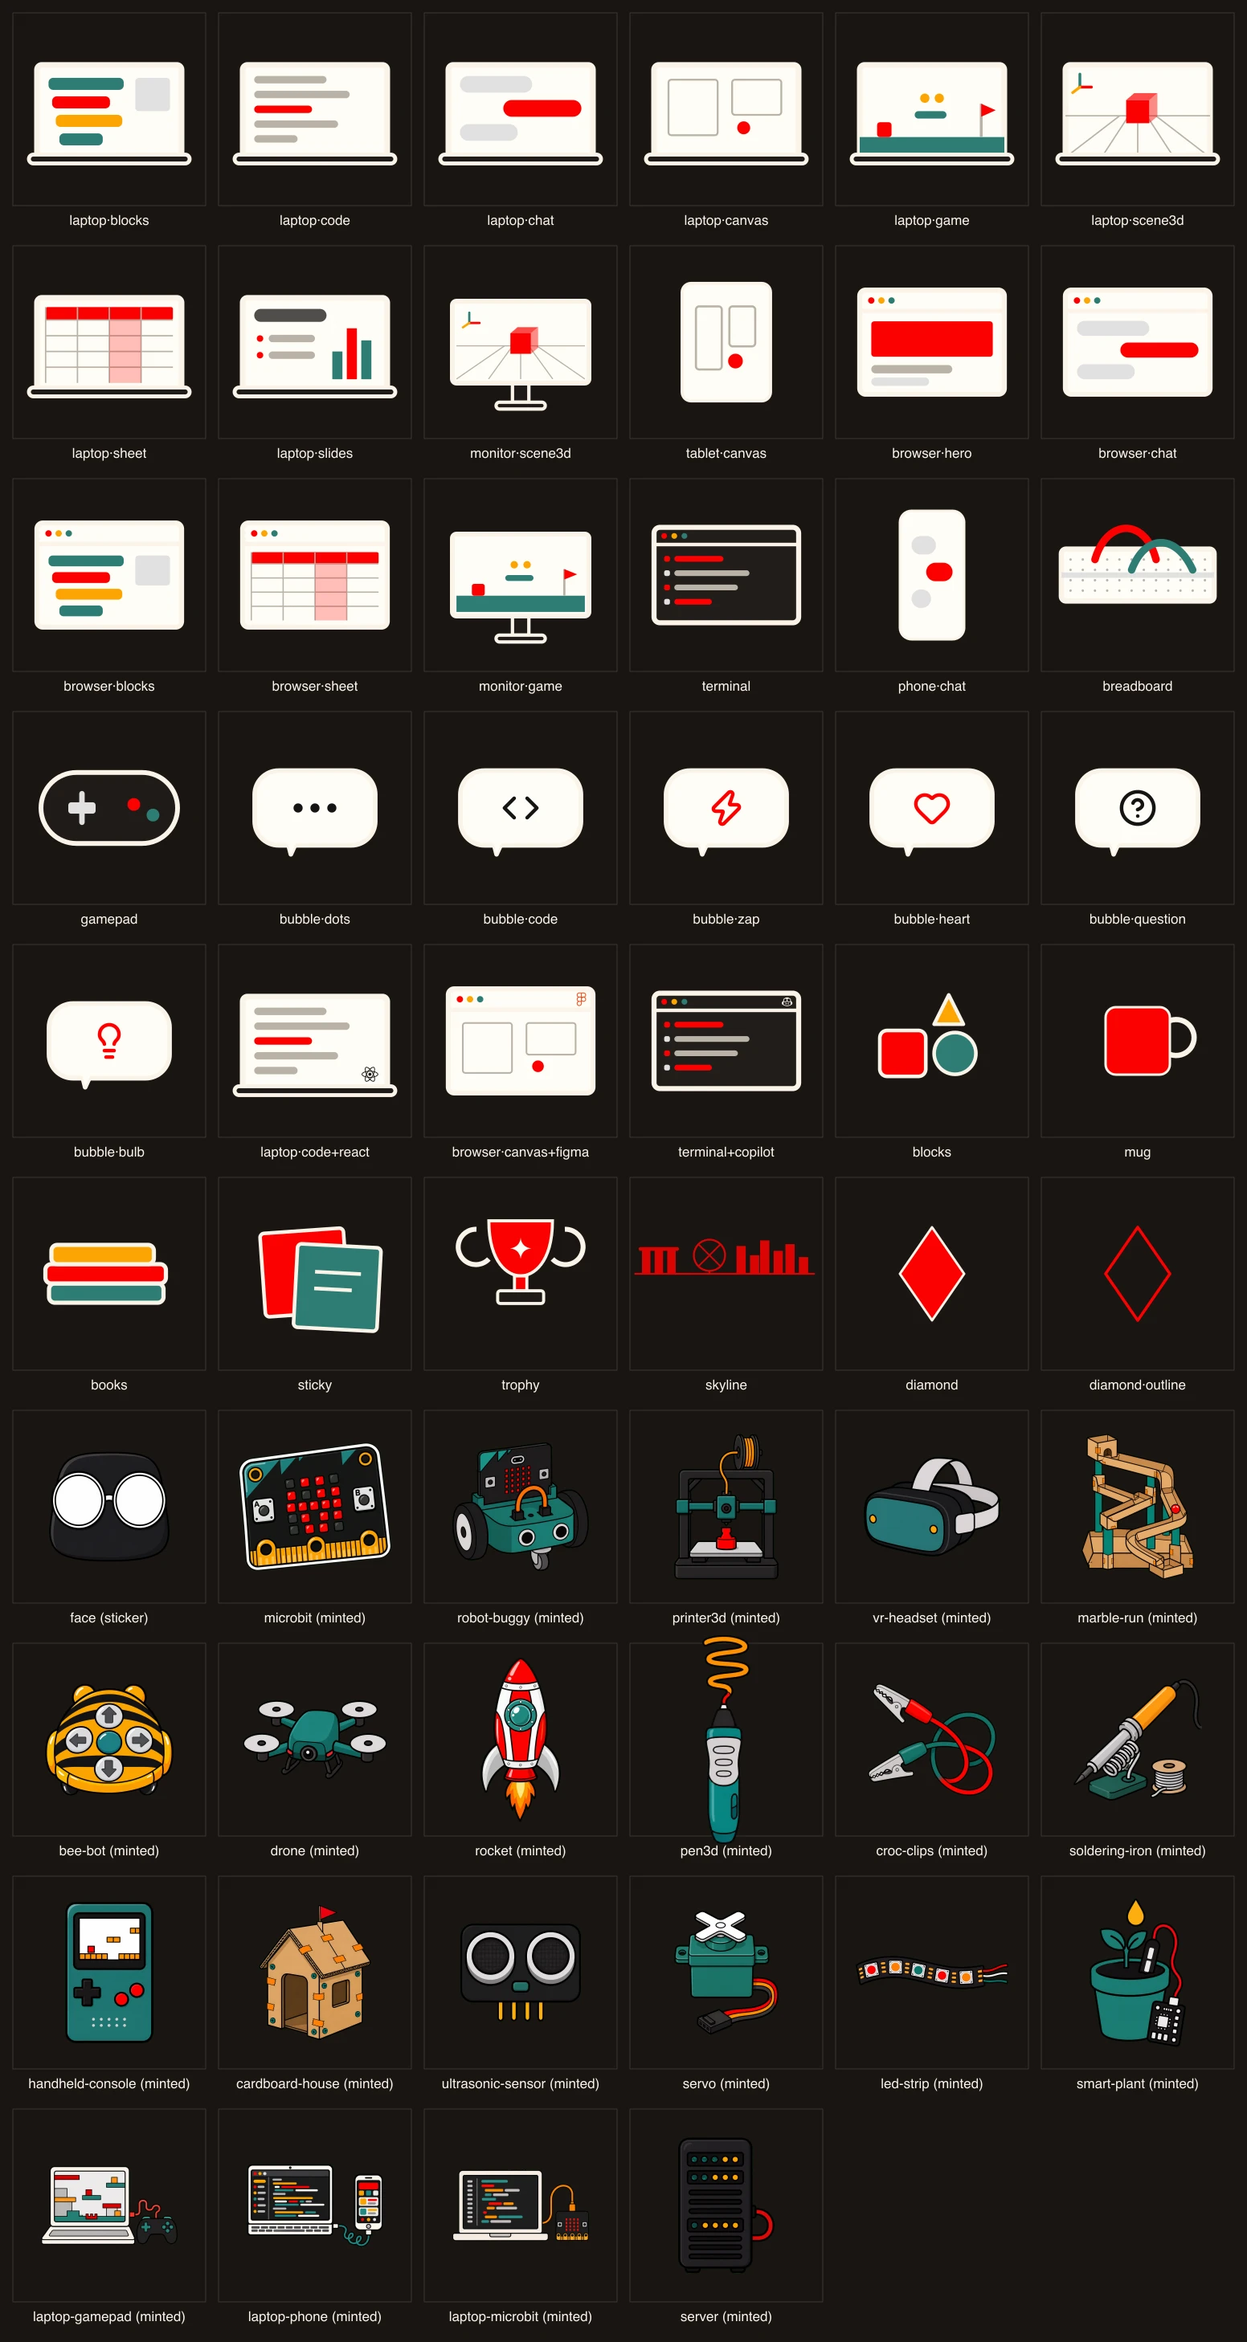
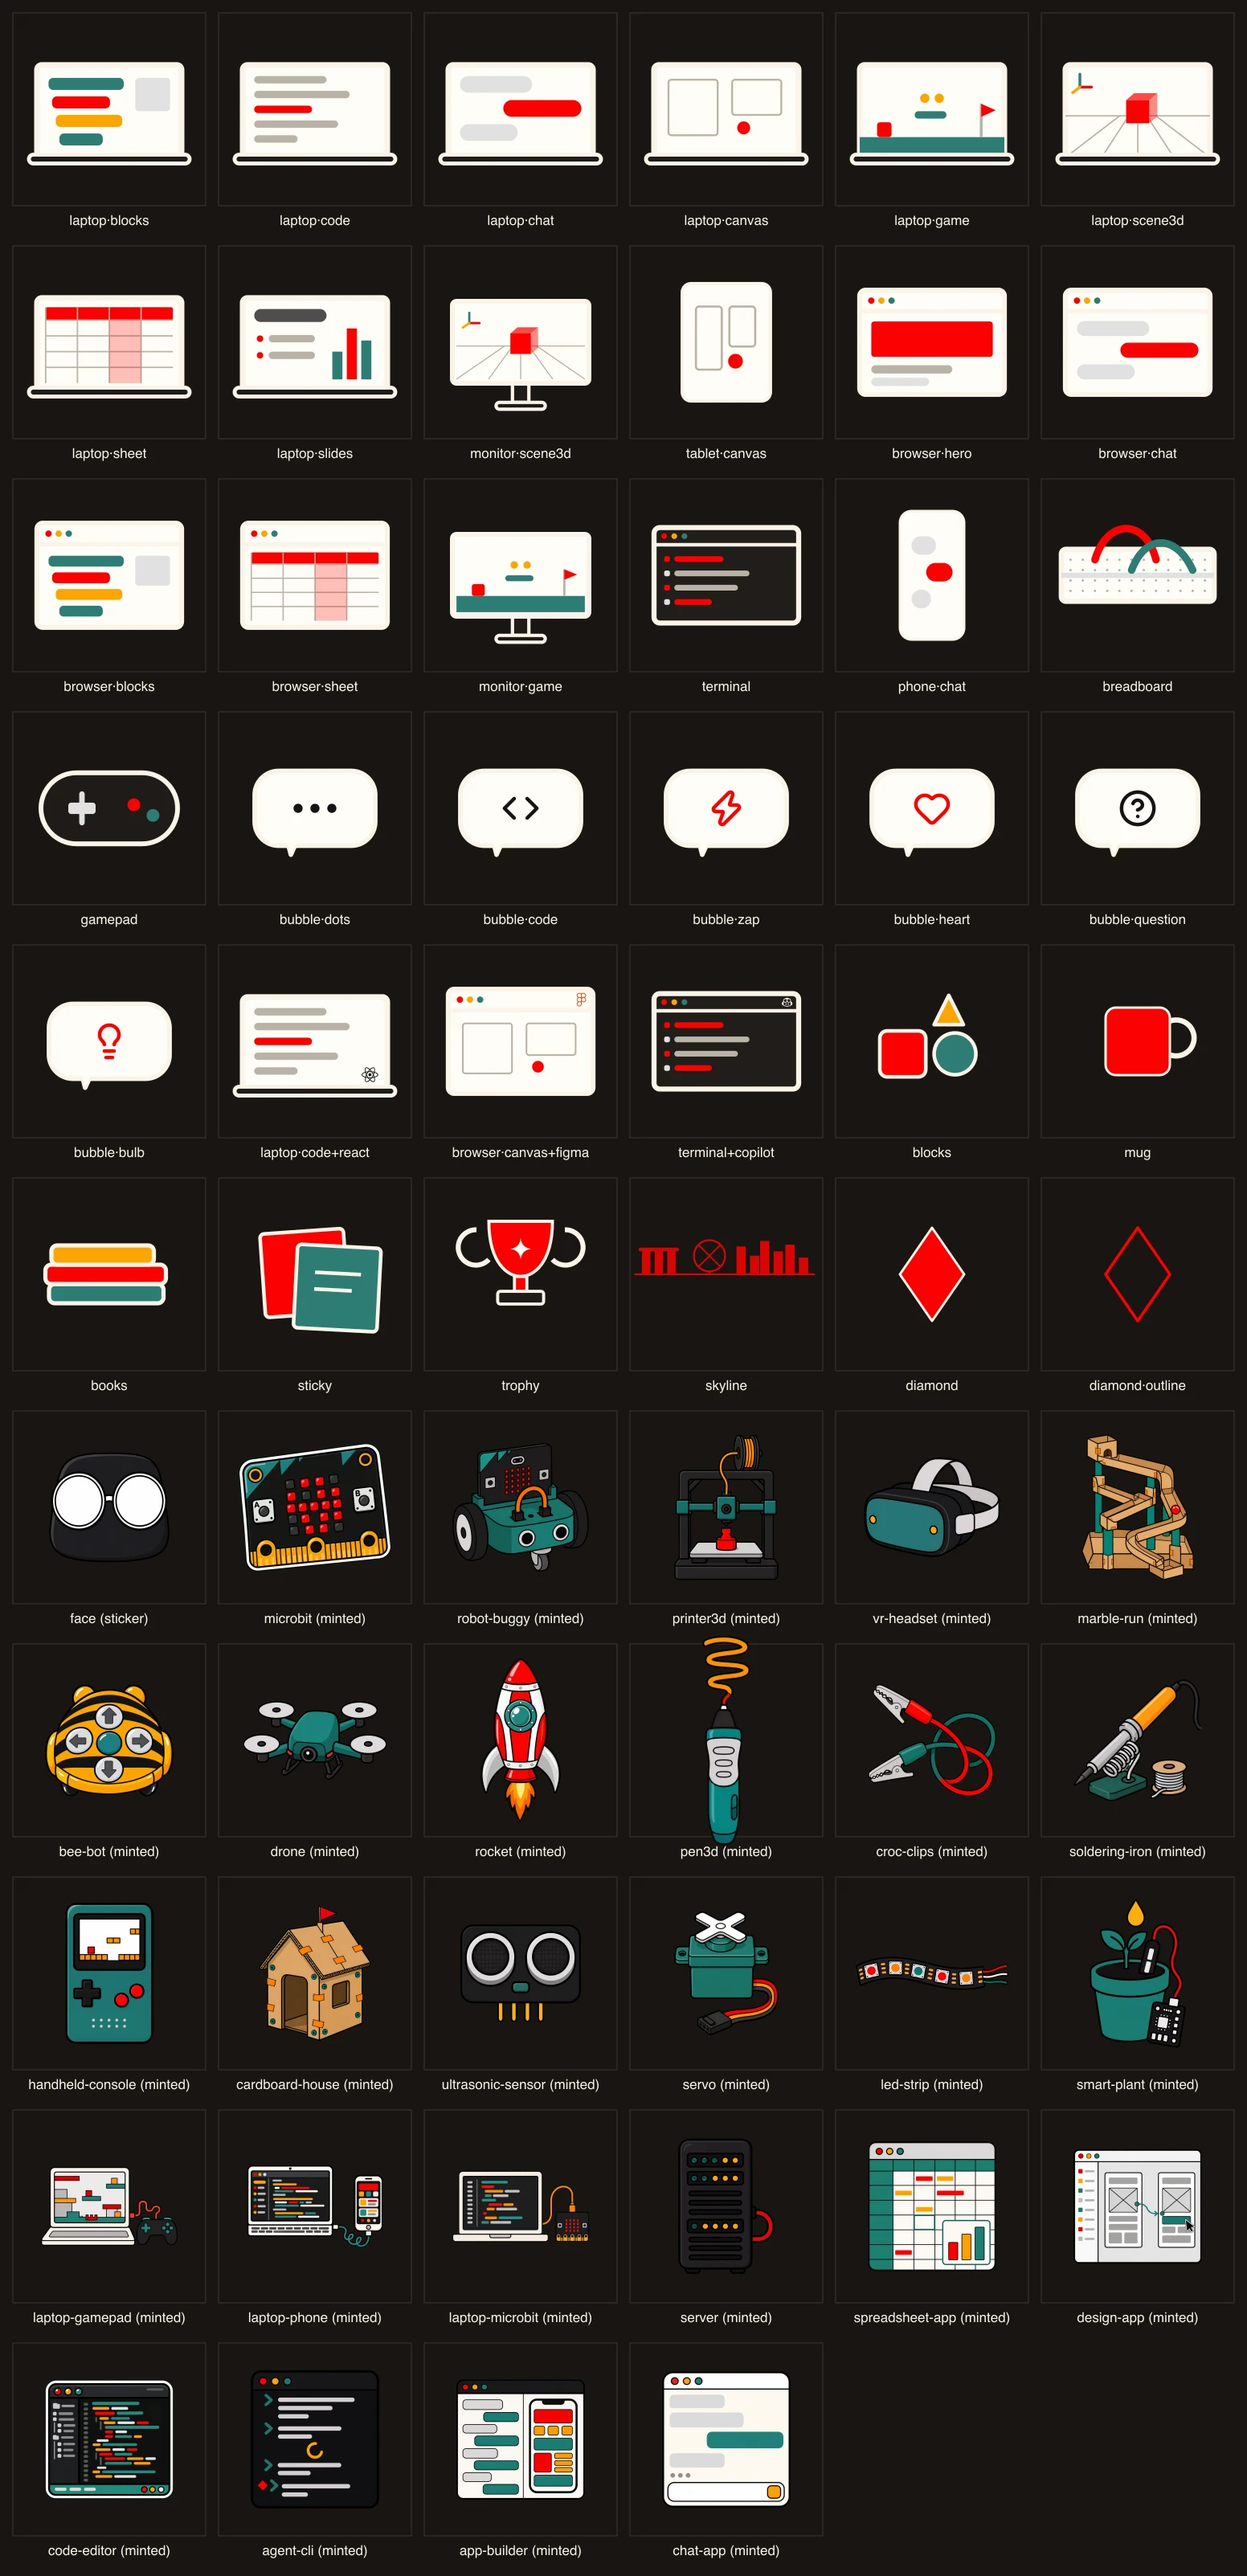
Mint six professional app-window sticker props
Flat, unbranded interface windows for the professional tracks:
spreadsheet-app (Excel-style grid + chart), design-app (Figma-style
frames with prototype arrow), code-editor (VS Code-style), agent-cli
(Codex-style agent terminal), app-builder (Lovable-style chat + phone
preview), chat-app (assistant conversation). No fake text or logos —
scenes pair them with real simple-icons badges for tool identity.

Claude-Session: https://claude.ai/code/session_0179E3eAQXJ3uzsNQh5mBGxN

diff --git a/reference/stickers/props/README.md b/reference/stickers/props/README.md
@@ -30,10 +30,16 @@ new files.
 | `laptop-phone` | Laptop wired to a phone mirroring the app (mobile dev tracks) |
 | `laptop-microbit` | Laptop flashing a micro:bit over USB (physical computing) |
 | `server` | Mini server tower with indicator lights (web/backend tracks) |
+| `spreadsheet-app` | Spreadsheet window with chart (Excel-style; data/business tracks) |
+| `design-app` | Design canvas with prototype arrow + cursor (Figma-style) |
+| `code-editor` | Dark editor with file tree (VS Code-style) |
+| `agent-cli` | AI coding agent terminal with prompts + spinner (Codex/Claude-style) |
+| `app-builder` | Chat + live phone preview split (Lovable-style) |
+| `chat-app` | Chat assistant conversation window (ChatGPT/Copilot-style) |
 
 Round-2 subjects were derived from the TT Curriculum drive (Bee-Bot, Tello
 drones, Space Camp, 3D Pen Art, High Tech Maker, Makedo, MakeCode Arcade).
-Round-4 added connected software setups (laptop+device composites, server). Round-3 subjects came from gethacking.com stock (ElecFreaks smart kits, Tinker Kit). Shortlist for the next round: battery-pack, robot arm (RPA),
+Round-5 added professional app-window stickers — deliberately unbranded (no fake logos/text) so scenes can pair them with real simple-icons logo badges. Round-4 added connected software setups (laptop+device composites, server). Round-3 subjects came from gethacking.com stock (ElecFreaks smart kits, Tinker Kit). Shortlist for the next round: battery-pack, robot arm (RPA),
 KTANE-style defusal box (Digital Making), blockchain cubes, sensor modules.
 Process a new batch with `python3 scripts/banner/process-mint.py <dir> <names>`.
 
